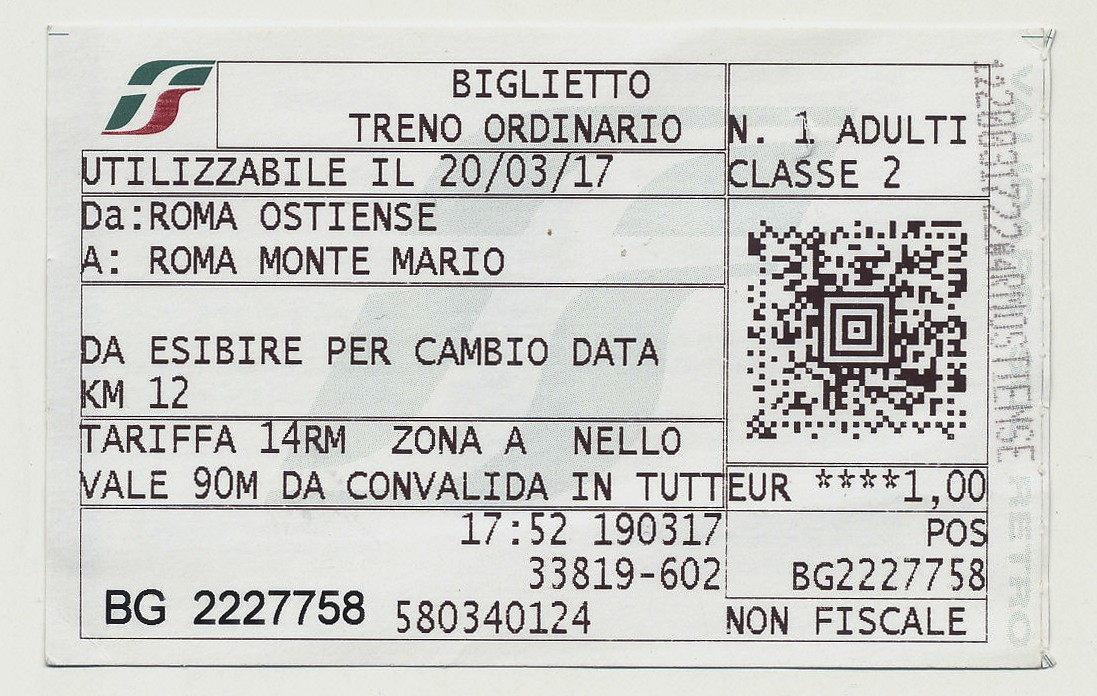
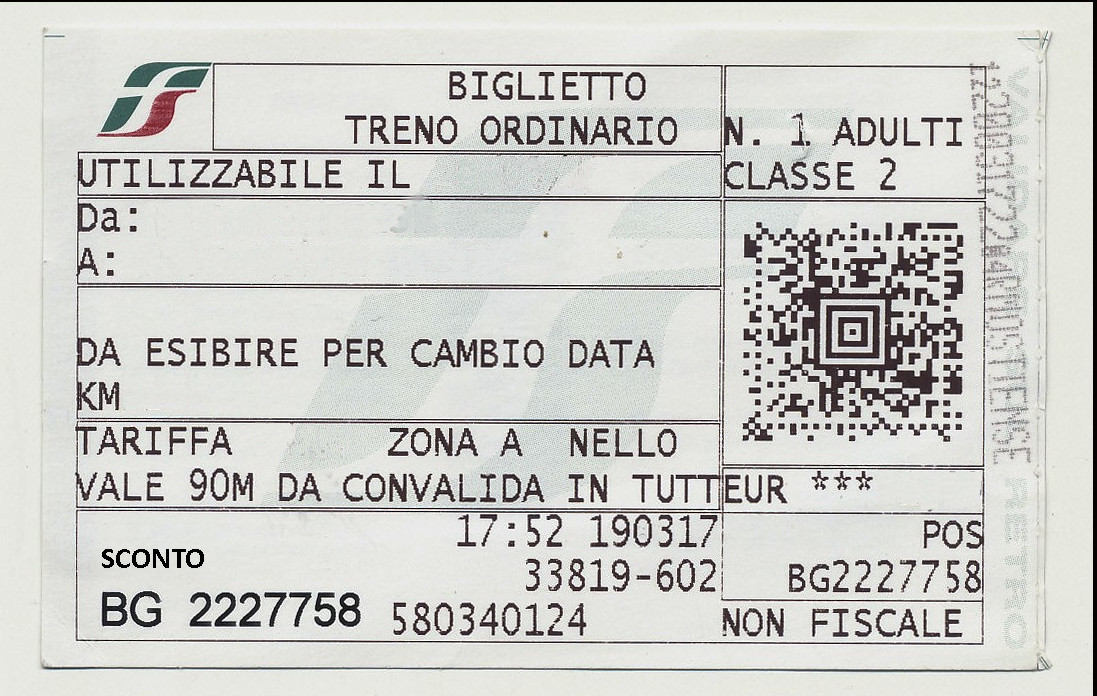
agg

Changed region(s): [[0.031, 0.0302, 0.9608, 0.9655], [0.9918, 0.0, 1.0, 1.0], [0.031, 0.0302, 0.062, 0.0603]]

diff --git a/index.html b/index.html
@@ -1,15 +1,24 @@
 <!DOCTYPE html>
 <html lang="en">
 <head>
+    <link rel="preconnect" href="https://fonts.gstatic.com">
+    <link href="https://fonts.googleapis.com/css2?family=VT323&display=swap" rel="stylesheet"> 
     <link rel="stylesheet" href="http://casaalmada.hostinggratis.it/doc/css/reset.css">
-    <link rel="stylesheet" href="/css/style.css">
+    <link rel="stylesheet" href="css/style.css">
     <meta charset="UTF-8">
     <meta http-equiv="X-UA-Compatible" content="IE=edge">
     <meta name="viewport" content="width=device-width, initial-scale=1.0">
     <title>Document</title>
 </head>
 <body>
-    
+    <div class="biglietto">
+        <img src="img/biglietto.jpg" alt="biglietto">
+        <div id="data">d</div>
+        <div id="sconto">sconto</div>
+        <div id="totale">totale</div>
+        <div id="tariffa">tarif</div>
+        <div id="distanza">dst</div>
+    </div>
 
 
 

diff --git a/css/style.css b/css/style.css
@@ -1,0 +1,45 @@
+body{
+    font-family: 'VT323', monospace;
+
+}
+
+.biglietto{
+    position: relative;
+    font-size:35px;
+    text-transform: uppercase;
+}
+
+#data{
+    position: absolute;
+    top: 18%;
+    left: 32%;
+    font-size: 44px;
+}
+
+#sconto {
+    position: absolute;
+    bottom: 18%;
+    left: 17%;
+    font-size: 35px;
+}
+
+#distanza {
+    position: absolute;
+    bottom: 41%;
+    left: 11%;
+    font-size: 35px;
+}
+
+#tariffa {
+    position: absolute;
+    bottom: 35%;
+    left: 21%;
+    font-size: 35px;
+}
+
+#totale {
+    position: absolute;
+    bottom: 28%;
+    right: 28%;
+    font-size: 35px;
+}

diff --git a/js/script.js b/js/script.js
@@ -19,6 +19,7 @@ totale.toFixed(2);
 prompt 
 */
 
+
 var birthday = prompt("Prego inserire la data di nascita nel seguente formato", "DD/MM/AAAA");
 var dd = birthday.substring(0, 2);
 var mm = birthday.substring(3,5);
@@ -31,7 +32,8 @@ console.log("yyyy",aaaa);
 
 birth = new Date(aaaa,(mm-1),dd);
 today = new Date();
-console.log(birth.getTime());
+document.getElementById("data").innerHTML= today;
+console.log(today);
 
 var dist = prompt("distanza da percorrere","00.00");
 console.log("distanza:",dist," Km");
